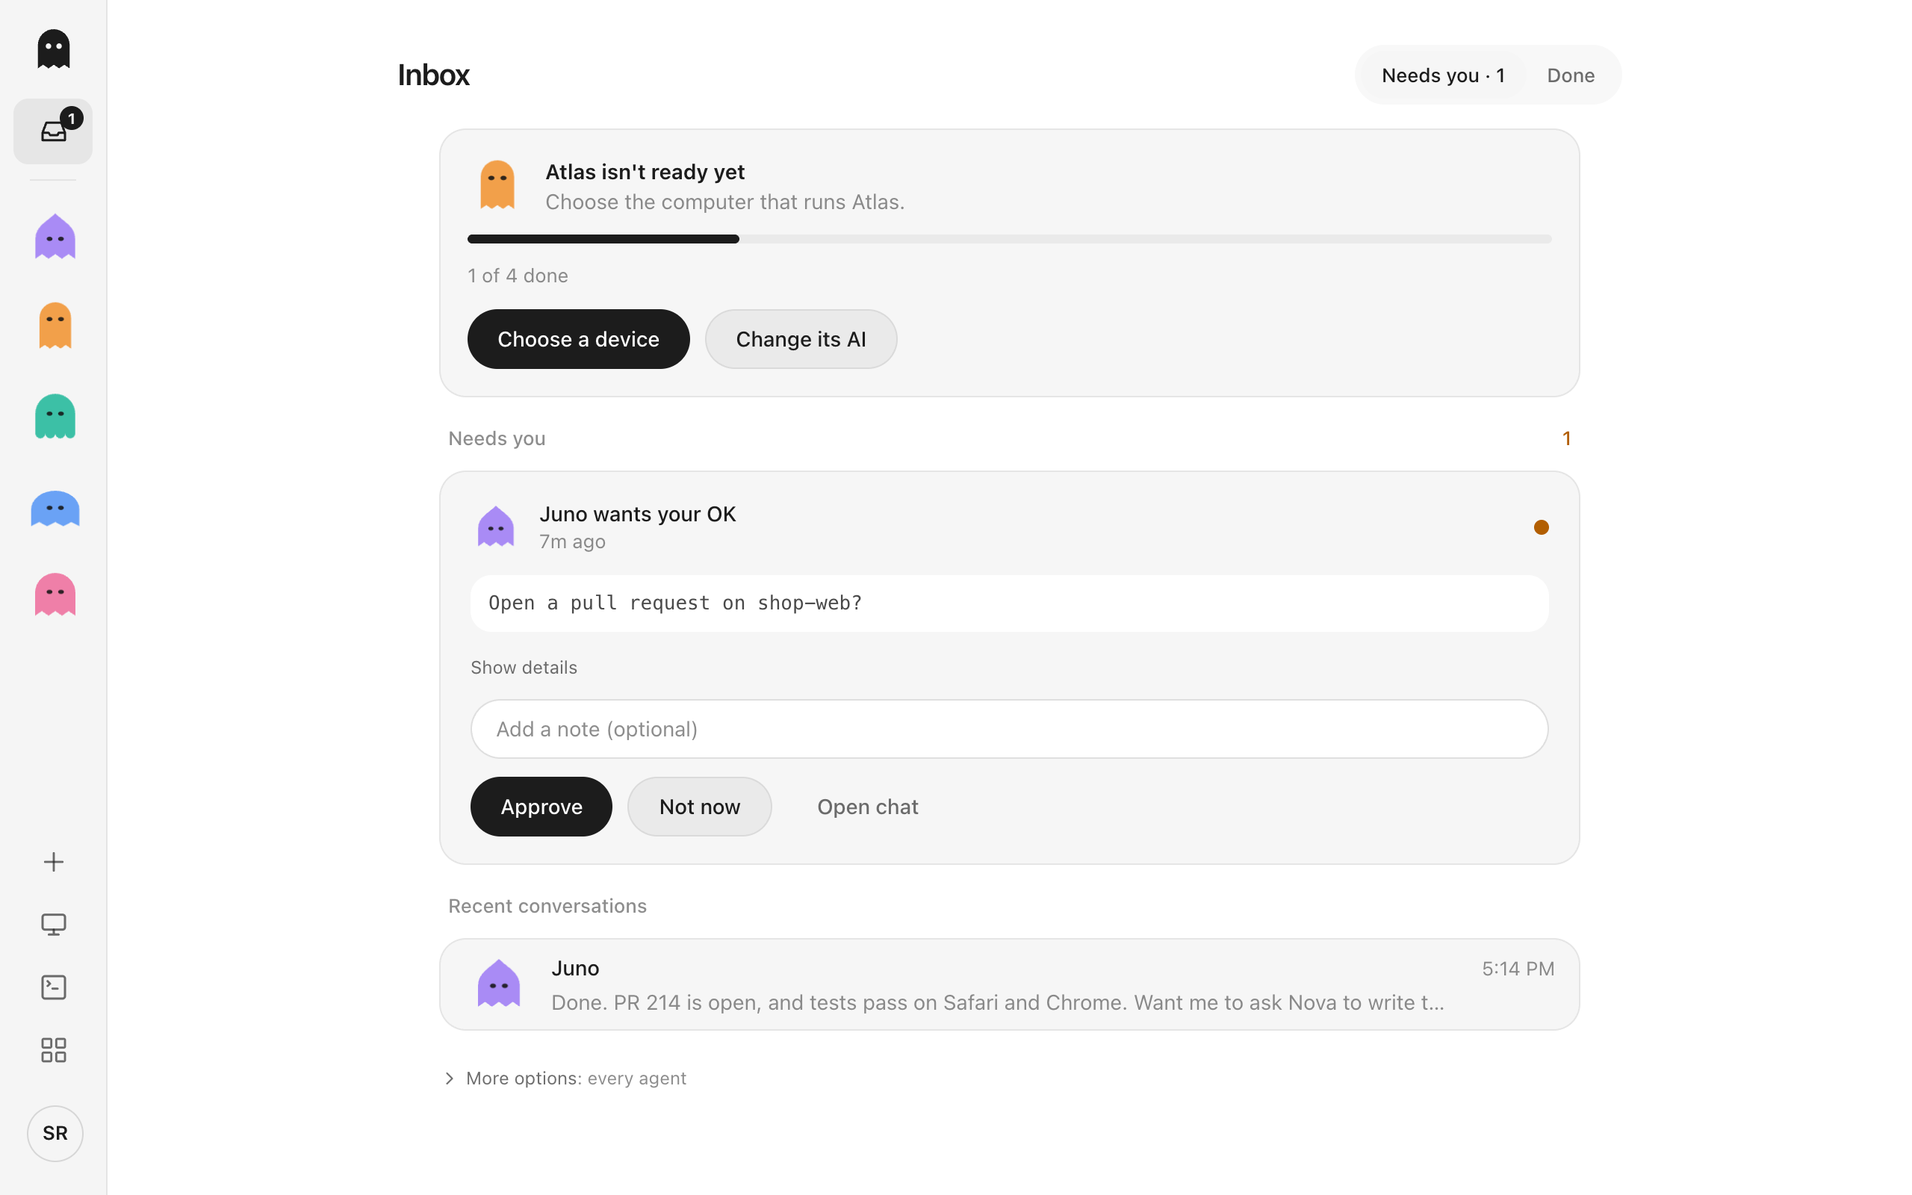
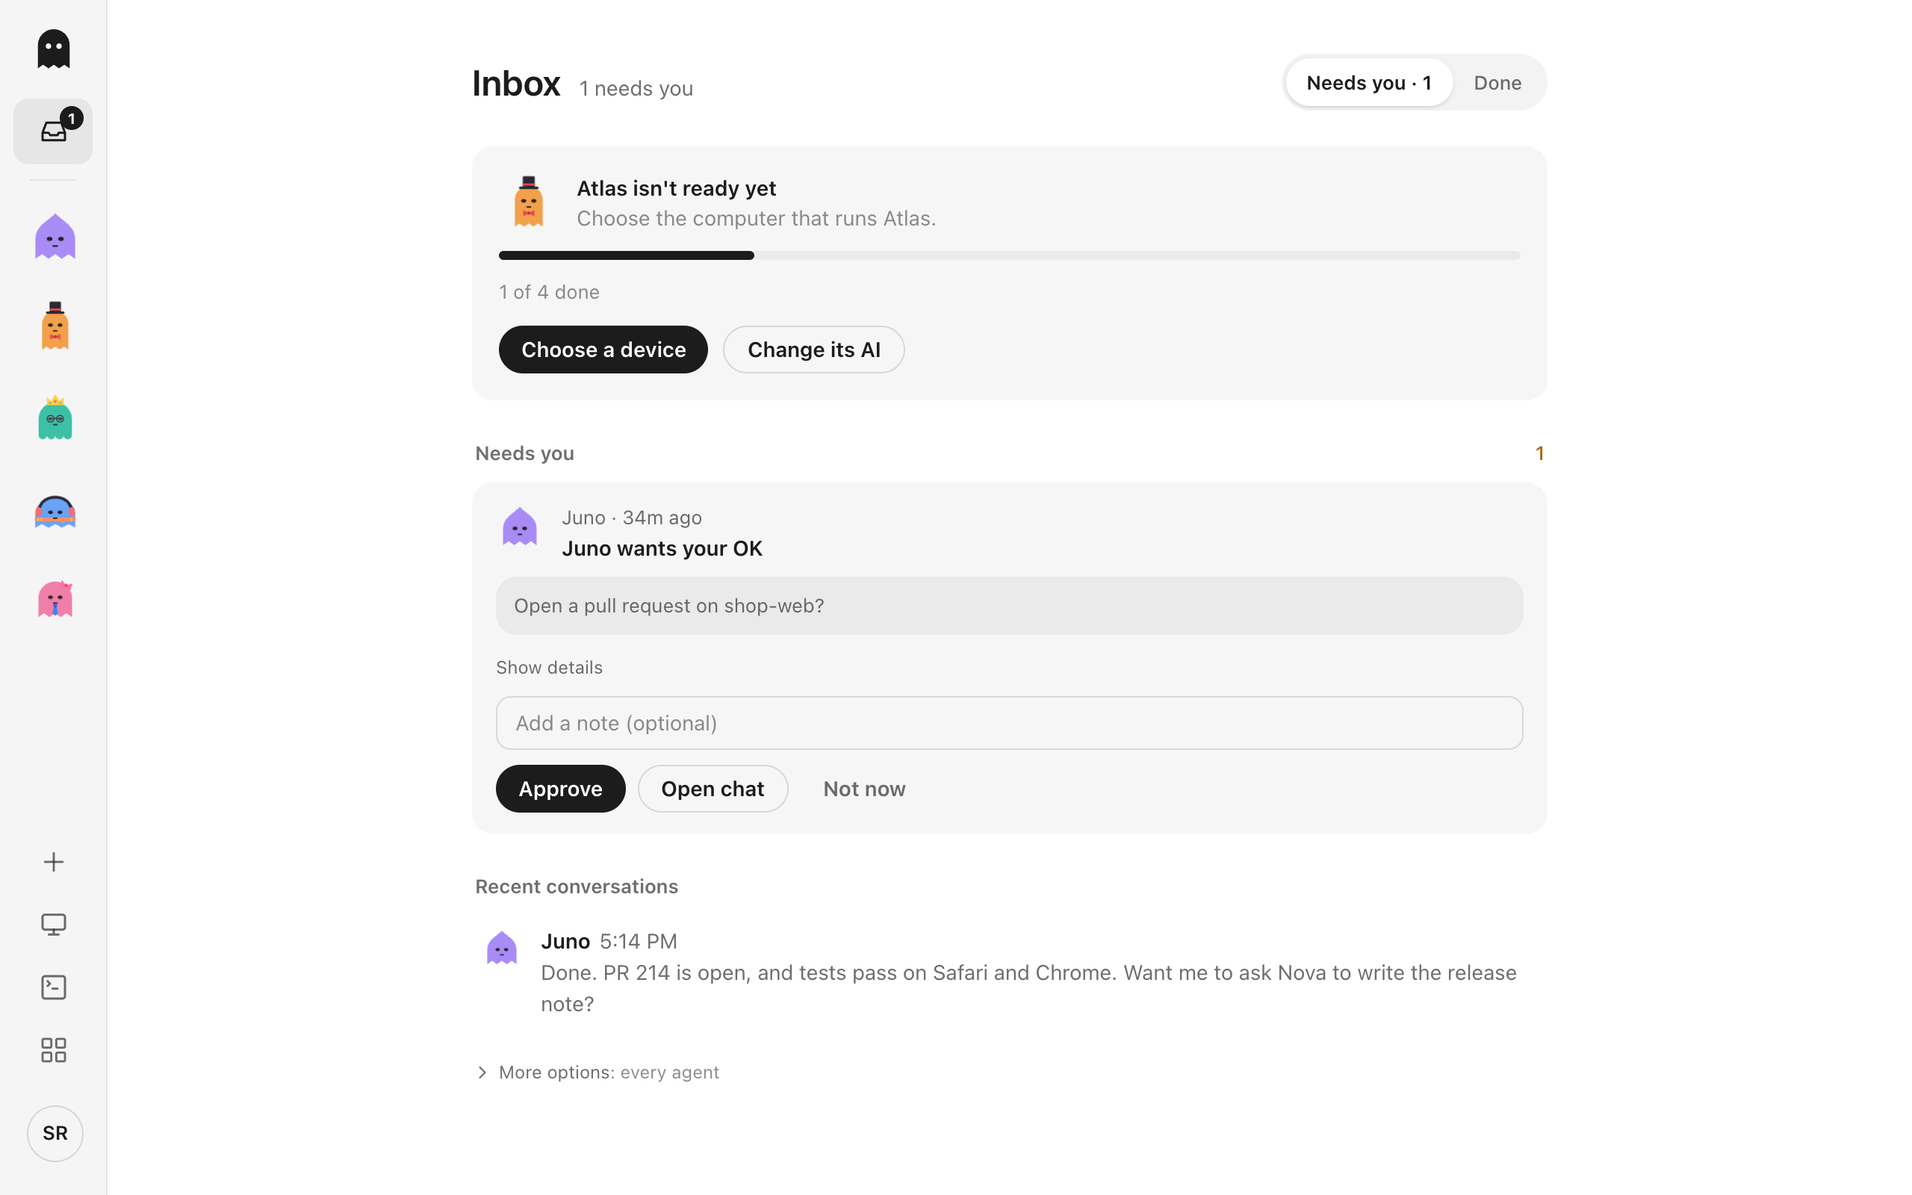
First-launch window: the flat ghost family with mouth C and hats; fresh screenshots with hats, the new Inbox and the first launch

diff --git a/apps/desktop/src/setup.html b/apps/desktop/src/setup.html
@@ -1016,71 +1016,28 @@
   }
 </script>
 <script>
-  // The stage's wisps. Plain script, because this page runs before the app does; the drawing and the
-  // numbers come from the app's Ghost.tsx and GhostArms.tsx, so the same wisp carries on after this page.
+  // The stage's wisps. Plain script, because this page runs before the app does; the shapes and colours
+  // come from the app's ghost family (web/src/ghostFamily.ts), so the same wisp carries on after this page.
   (() => {
+// The ghost family (web/src/ghostFamily.ts): flat, one colour, two eyes, its own silhouette.
+// Paths are in the family's 40-unit space; the stage draws them 3× into its 120-unit box.
 const BODY = {
-  classic: { d: "M30 60 C30 32 44 18 60 18 C76 18 90 32 90 60 L90 96 Q85 104 80 96 Q75 88 70 96 Q65 104 60 96 Q55 88 50 96 Q45 104 40 96 Q35 88 30 96 Z", ey: 54, ex: [50, 70], my: 66, top: 18, bottom: 100, hs: 1, ground: 111 },
-  round: { d: "M22 64 C22 38 38 26 60 26 C82 26 98 38 98 64 L98 92 Q92 100 86 92 Q80 84 74 92 Q67 100 60 92 Q53 84 46 92 Q40 100 34 92 Q28 84 22 92 Z", ey: 58, ex: [47, 73], my: 70, top: 26, bottom: 96, hs: 1.38, ground: 107 },
-  tall: { d: "M38 52 C38 24 47 10 60 10 C73 10 82 24 82 52 L82 102 Q76.5 110 71 102 Q65.5 94 60 102 Q54.5 110 49 102 Q43.5 94 38 102 Z", ey: 44, ex: [52, 68], my: 56, top: 10, bottom: 106, hs: .77, ground: 115 },
-  sheet: { d: "M42 52 C42 28 50 16 60 16 C70 16 78 28 78 52 C80 72 92 86 100 100 Q93 95 86 102 Q78 95 70 102 Q60 95 50 102 Q42 95 34 102 Q27 95 20 100 C28 86 40 72 42 52 Z", ey: 46, ex: [53, 67], my: 57, top: 16, bottom: 102, hs: .65, ground: 110 },
-  wisp: { d: "M60 16 C80 16 90 32 90 52 C90 74 78 84 68 90 C60 95 58 104 66 108 C52 110 46 98 50 90 C36 84 30 72 30 52 C30 32 40 16 60 16 Z", ey: 50, ex: [50, 70], my: 62, top: 16, bottom: 109, hs: 1.09, ground: 115 },
+  ghost: { d: "M6 18.5a14 14 0 0 1 28 0V35l-4.7-3.3-4.6 3.3-4.7-3.3-4.7 3.3-4.6-3.3L6 35Z", ey: 18, top: 4.5, hat: 1.4 },
+  drop: { d: "M20 3c6 6 14 9 14 18v14l-4.7-3.3-4.6 3.3-4.7-3.3-4.7 3.3-4.6-3.3L6 35V21C6 12 14 9 20 3Z", ey: 21, top: 7.5, hat: 0.95 },
+  soft: { d: "M6 18a14 14 0 0 1 28 0v14a3.5 3.5 0 0 1-7 0 3.5 3.5 0 0 1-7 0 3.5 3.5 0 0 1-7 0 3.5 3.5 0 0 1-7 0Z", ey: 18, top: 4, hat: 1.4 },
+  tall: { d: "M9 14a11 11 0 0 1 22 0v22l-3.7-2.6-3.6 2.6-3.7-2.6-3.7 2.6-3.6-2.6L9 36Z", ey: 15, top: 3, hat: 1.1 },
+  wide: { d: "M3 22a17 13 0 0 1 34 0v12l-5.7-3-5.6 3-5.7-3-5.7 3-5.6-3L3 34Z", ey: 21, top: 9, hat: 1.45 },
 };
-const COLORS = [["White", "#ffffff", "#ffffff"], ["Bubblegum sky", "#8bd4ff", "#ff51bf"], ["Orchid peach", "#e771ff", "#ffd87c"], ["Coral mint", "#beffe8", "#ff797b"], ["Arctic blue", "#97fff3", "#0084ff"], ["Solar flare", "#ecca5c", "#fe3c3f"], ["Violet ember", "#ff5c43", "#6262ff"], ["Ultraviolet tide", "#7516cf", "#00e8d1"]];
-const swap = (d, a, b) => d.replaceAll(a, "§").replaceAll(b, a).replaceAll("§", b);
-const SHEET_B = "M42 52 C42 28 50 16 60 16 C70 16 78 28 78 52 C80 72 92 86 100 100 Q93 105 86 98 Q78 105 70 98 Q60 105 50 98 Q42 105 34 98 Q27 105 20 100 C28 86 40 72 42 52 Z";
-const WISP_B = "M60 16 C80 16 90 32 90 52 C90 74 80 86 70 92 C62 97 64 106 72 110 C58 110 52 100 52 92 C38 86 30 72 30 52 C30 32 40 16 60 16 Z";
-const ALT = { classic: (d) => swap(d, "104", "88"), round: (d) => swap(d, "100", "84"), tall: (d) => swap(d, "110", "94"), sheet: () => SHEET_B, wisp: () => WISP_B };
-const RIG = { classic: { y: 66, x: [30, 90], tilt: [0, 0], s: .95 }, round: { y: 70, x: [22, 98], tilt: [0, 0], s: 1.08 }, tall: { y: 58, x: [38, 82], tilt: [0, 0], s: .82 }, sheet: { y: 67, x: [38.5, 81.5], tilt: [-20.4, -20.4], s: .86 }, wisp: { y: 62, x: [30.4, 89], tilt: [6.9, 11.4], s: .98 } };
-const r2 = (n) => Math.round(n * 100) / 100;
-const NONE = "M0 0";
-const armFrame = (shape, i) => { const r = RIG[shape]; return `translate(${r.x[i]}px,${r.y}px) scale(${i ? 1 : -1},1) rotate(${r.tilt[i]}deg) scale(${r.s}) translate(-3.8px,0px) rotate(calc(var(--ga-a) + var(--ga-w)))`; };
-function toBody(shape, i, angle) {
-  const rig = RIG[shape], a = angle * Math.PI / 180, t = rig.tilt[i] * Math.PI / 180;
-  const x0 = (10.6 * Math.cos(a) - 3.8) * rig.s, y0 = 10.6 * Math.sin(a) * rig.s;
-  const x = x0 * Math.cos(t) - y0 * Math.sin(t), y = x0 * Math.sin(t) + y0 * Math.cos(t);
-  return { x: r2(rig.x[i] + (i ? x : -x)), y: r2(rig.y + y) };
-}
-function laptop(shape, bottom) {
-  const rig = RIG[shape], hl = toBody(shape, 0, 120), hr = toBody(shape, 1, 120), hy = (hl.y + hr.y) / 2, hand = 3.6 * rig.s;
-  const lidTop = r2(hy + hand + .6), deckTop = r2(hy - 1.6 * rig.s), w = r2(hr.x - hl.x + 18 * rig.s), h = r2(Math.min(28, Math.max(18, bottom - lidTop + 1.5)));
-  const [x0, x1, b0, b1, y1, c] = [60 - w / 2, 60 + w / 2, 60 - (w - 5) / 2, 60 + (w - 5) / 2, lidTop + h, 3.2];
-  const [dt, db] = [(w - 11) / 2, (w - 2) / 2];
-  const keys = [.38, .75].flatMap((k) => { const ky = r2(deckTop + (lidTop - deckTop) * k), half = dt + (db - dt) * k - 3; return Array.from({ length: 7 }, (_, i) => `M${r2(60 - half + half / 3 * i - 1.3)} ${ky} h2.6`); }).join(" ");
-  return {
-    deck: `M${r2(60 - dt)} ${deckTop} H${r2(60 + dt)} L${r2(60 + db)} ${r2(lidTop + 1)} H${r2(60 - db)} Z`, keys,
-    lid2: `M${r2(x0 + c)} ${lidTop} H${r2(x1 - c)} Q${r2(x1)} ${lidTop} ${r2(x1 - .3)} ${r2(lidTop + c)} L${r2(b1 + .2)} ${r2(y1 - c)} Q${r2(b1)} ${r2(y1)} ${r2(b1 - c)} ${r2(y1)} H${r2(b0 + c)} Q${r2(b0)} ${r2(y1)} ${r2(b0 - .2)} ${r2(y1 - c)} L${r2(x0 + .3)} ${r2(lidTop + c)} Q${r2(x0)} ${lidTop} ${r2(x0 + c)} ${lidTop} Z`,
-    lidline: `M${r2(x0 + 3.5)} ${r2(lidTop + .9)} H${r2(x1 - 3.5)}`,
-  };
-}
-const oval = (cx, cy, rx, ry) => `M${cx - rx} ${cy} a${rx} ${ry} 0 1 0 ${2 * rx} 0 a${rx} ${ry} 0 1 0 ${-2 * rx} 0`;
-function eyesFor(style, x, y) {
-  const out = { whites: NONE, pupils: NONE, shine: NONE, arcs: NONE, pupilDark: false };
-  if (style === "happy") out.arcs = x.map((c) => `M${c - 4.8} ${y + 1.5} Q${c} ${y - 4.5} ${c + 4.8} ${y + 1.5}`).join(" ");
-  else if (style === "big") { out.whites = x.map((c) => oval(c, y, 6.2, 6.2)).join(" "); out.pupils = x.map((c) => oval(c, y + .5, 3.6, 3.6)).join(" "); out.shine = x.map((c) => oval(c + 1.4, y - 1, 1.2, 1.2)).join(" "); out.pupilDark = true; }
-  else if (style === "sparkle") { out.pupils = x.map((c) => oval(c, y, 4.4, 5.6)).join(" "); out.shine = x.map((c) => oval(c + 1.4, y - 2, 1.6, 1.6) + " " + oval(c - 1.4, y + 2, .9, .9)).join(" "); }
-  else if (style === "wink") { out.pupils = oval(x[0], y, 3.4, 4.4); out.arcs = `M${x[1] - 4.6} ${y} Q${x[1]} ${y - 3.6} ${x[1] + 4.6} ${y}`; }
-  else { out.pupils = x.map((c) => oval(c, y, 3.9, 4.9)).join(" "); out.shine = x.map((c) => oval(c + 1.3, y - 1.8, 1.4, 1.4) + " " + oval(c - 1.2, y + 1.9, .7, .7)).join(" "); }
-  return out;
-}
-function mouthFor(style, y) {
-  const x = 60, m = { mouthS: NONE, mouthF: NONE, mouthP: NONE, mouthW: NONE };
-  if (style === "open") { m.mouthF = oval(x, y + 1, 3.4, 4); m.mouthP = oval(x, y + 3, 2.2, 1.4); }
-  else if (style === "cat") m.mouthS = `M${x - 5.5} ${y} Q${x - 2.75} ${y + 3.6} ${x} ${y} Q${x + 2.75} ${y + 3.6} ${x + 5.5} ${y}`;
-  else if (style === "fangs") { m.mouthS = `M${x - 6} ${y} Q${x} ${y + 4.5} ${x + 6} ${y}`; m.mouthW = `M${x - 4} ${y + 1.6} l1.4 3.6 l1.4 -3.2 Z M${x + 1.2} ${y + 1.9} l1.4 3.2 l1.4 -3.6 Z`; }
-  else if (style === "tongue") { m.mouthS = `M${x - 5} ${y} Q${x} ${y + 4} ${x + 5} ${y}`; m.mouthP = `M${x + .2} ${y + 1.6} q0 5 3.2 5 q3.2 0 2.6 -5.8 Z`; }
-  else if (style === "flat") m.mouthS = `M${x - 3.2} ${y + 1.2} L${x + 3.2} ${y + 1.2}`;
-  else m.mouthS = `M${x - 4.5} ${y} Q${x} ${y + 4.2} ${x + 4.5} ${y}`;
-  return m;
-}
+const COLORS = ["#a98bf5", "#3cc0a6", "#f2a04a", "#6aa2f5", "#ef7fa8", "#cfd36a"];
+const HAT_SINK = { tophat: 3, beanie: 4.5, crown: 2.5 };
 // Each of the crew has its own face, way of moving and clock, so no two ever line up
 const T = (motion, ripple, left, right, blink) => ({ motion, ground: motion, ripple, left, right, blink });
 const CREW = [
-  { shape: "round", c: 1, hat: "none", eyes: "big", mouth: "open", cheeks: true, motion: "bounce", x: 20, y: 31, size: 132, time: T("animation-duration:2.1s;animation-delay:-.7s", "2.1s", "animation-duration:3.3s;animation-delay:-1s", "animation-duration:6.4s;animation-delay:-3.9s", "animation-duration:5.3s;animation-delay:-1.1s") },
+  { shape: "wide", c: 3, hat: "none", eyes: "big", mouth: "open", cheeks: true, motion: "bounce", x: 20, y: 31, size: 132, time: T("animation-duration:2.1s;animation-delay:-.7s", "2.1s", "animation-duration:3.3s;animation-delay:-1s", "animation-duration:6.4s;animation-delay:-3.9s", "animation-duration:5.3s;animation-delay:-1.1s") },
   { shape: "tall", c: 2, hat: "tophat", eyes: "sparkle", mouth: "cat", cheeks: false, motion: "sway", x: 80, y: 25, size: 156, time: T("animation-duration:4.3s;animation-delay:-2.2s", "3.4s", "animation-duration:4.9s;animation-delay:-2s", "animation-duration:9.1s;animation-delay:-.4s", "animation-duration:6.7s;animation-delay:-3s") },
-  { shape: "wisp", c: 4, hat: "none", eyes: "dots", mouth: "tongue", cheeks: true, motion: "float", arms: "cheer", x: 82, y: 71, size: 136, time: T("animation-duration:5.2s;animation-delay:-1.4s", "2.9s", "animation-duration:2.7s;animation-delay:-.3s", "animation-duration:3.1s;animation-delay:-1.7s", "animation-duration:4.1s;animation-delay:-2.4s") },
-  { shape: "sheet", c: 5, hat: "crown", eyes: "wink", mouth: "fangs", cheeks: false, motion: "sway", x: 18, y: 73, size: 118, time: T("animation-duration:3.1s;animation-delay:-.9s", "3.8s", "animation-duration:5.6s;animation-delay:-4s", "animation-duration:7.7s;animation-delay:-5.8s", "") },
-  { shape: "classic", c: 3, hat: "beanie", eyes: "big", mouth: "smile", cheeks: true, motion: "float", x: 50, y: 13, size: 104, time: T("animation-duration:3.9s;animation-delay:-3s", "2.3s", "animation-duration:4.2s;animation-delay:-2.7s", "animation-duration:11s;animation-delay:-7.5s", "animation-duration:7.3s;animation-delay:-5s") },
+  { shape: "drop", c: 4, hat: "none", eyes: "dots", mouth: "tongue", cheeks: true, motion: "float", arms: "cheer", x: 82, y: 71, size: 136, time: T("animation-duration:5.2s;animation-delay:-1.4s", "2.9s", "animation-duration:2.7s;animation-delay:-.3s", "animation-duration:3.1s;animation-delay:-1.7s", "animation-duration:4.1s;animation-delay:-2.4s") },
+  { shape: "soft", c: 1, hat: "crown", eyes: "wink", mouth: "fangs", cheeks: false, motion: "sway", x: 18, y: 73, size: 118, time: T("animation-duration:3.1s;animation-delay:-.9s", "3.8s", "animation-duration:5.6s;animation-delay:-4s", "animation-duration:7.7s;animation-delay:-5.8s", "") },
+  { shape: "ghost", c: 5, hat: "beanie", eyes: "big", mouth: "smile", cheeks: true, motion: "float", x: 50, y: 13, size: 104, time: T("animation-duration:3.9s;animation-delay:-3s", "2.3s", "animation-duration:4.2s;animation-delay:-2.7s", "animation-duration:11s;animation-delay:-7.5s", "animation-duration:7.3s;animation-delay:-5s") },
 ];
 
     const SCENE = {
@@ -1092,50 +1049,32 @@ const CREW = [
     const BOX = 300;
     const stage = document.getElementById("stage");
     const reduced = matchMedia("(prefers-reduced-motion: reduce)");
-    const WHITE = { shape: "classic", c: 0, hat: "none", eyes: "dots", mouth: "smile", cheeks: false, time: { right: "animation-duration:6.2s;animation-delay:-1.6s" } };
+    const WHITE = { shape: "drop", c: 0, hat: "none", eyes: "dots", mouth: "smile", cheeks: false, time: { right: "animation-duration:6.2s;animation-delay:-1.6s" } };
 
     function svg(i, look, mood) {
-      const b = BODY[look.shape], c = COLORS[look.c], rig = RIG[look.shape], t = look.time || {};
-      const ink = "#1d1d1f";
-      const e = eyesFor(mood === "done" ? "happy" : look.eyes, b.ex, b.ey), m = mouthFor(mood === "done" ? "open" : mood === "working" ? "flat" : look.mouth, b.my);
-      const rip = `<animate attributeName="d" dur="${t.ripple || "2.6s"}" repeatCount="indefinite" values="${b.d};${ALT[look.shape](b.d)};${b.d}" calcMode="spline" keySplines="0.45 0 0.55 1;0.45 0 0.55 1"/>`;
-      const armC = { awake: ["ga ga-awake ga-breathe", "ga ga-awake ga-wave"], done: ["ga ga-cheer", "ga ga-cheer"], waiting: ["ga ga-awake ga-breathe", "ga ga-signarm"], working: ["ga ga-tap", "ga ga-tap"], cheer: ["ga ga-cheer", "ga ga-cheer"] }[look.arms || mood];
-      const armStyle = (side, extra) => `transform:${armFrame(look.shape, side)};${extra || ""}`;
-      const LIMB = "M0 -3.6 H10.6 A3.6 3.6 0 0 1 10.6 3.6 H0 A3.6 3.6 0 0 1 0 -3.6 Z";
-      const lap = mood === "working" ? laptop(look.shape, b.bottom) : null;
+      const b = BODY[look.shape], color = COLORS[look.c], t = look.time || {};
+      const ink = "rgba(20,20,20,.88)", ey = b.ey * 3, my = (b.ey + 5) * 3;
       const motion = { working: "", done: "mo-hop", waiting: "mo-wait" }[mood] ?? "mo-" + (look.motion || "float");
+      // mouth C: flat, a smile when it's happy, a pressed line while working
+      const mouth = mood === "done" ? `M54 ${my - 0.9}q6 5.1 12 0` : mood === "working" ? `M58.8 ${my + 0.6}h6.3` : `M56.1 ${my}h7.8`;
       const hats = {
         tophat: '<rect x="-13" y="-25" width="26" height="25" rx="3" fill="#2b2735"/><rect x="-13" y="-9" width="26" height="5" fill="#e5484d"/><rect x="-21" y="-2" width="42" height="5.5" rx="2.75" fill="#2b2735"/>',
-        crown: '<path d="M-15 3 L-15 -12 L-7.5 -4.5 L0 -17 L7.5 -4.5 L15 -12 L15 3 Z" fill="#ffcf3f" stroke="#e0a800" stroke-width="1.5" stroke-linejoin="round"/><circle cx="0" cy="-4" r="2.4" fill="#ff5d73"/><circle cx="-9" cy="-1.5" r="1.7" fill="#4dabf7"/><circle cx="9" cy="-1.5" r="1.7" fill="#4dabf7"/>',
+        crown: '<path d="M-15 3 L-15 -12 L-7.5 -4.5 L0 -17 L7.5 -4.5 L15 -12 L15 3 Z" fill="#ffcf3f"/><circle cx="0" cy="-4" r="2.4" fill="#ff5d73"/><circle cx="-9" cy="-1.5" r="1.7" fill="#4dabf7"/><circle cx="9" cy="-1.5" r="1.7" fill="#4dabf7"/>',
         beanie: '<path d="M-21 6 Q-21 -16 0 -16 Q21 -16 21 6 Z" fill="#5b8def"/><rect x="-22.5" y="0" width="45" height="8" rx="4" fill="#3f6fd8"/><circle cx="0" cy="-17" r="5" fill="#f8fafc"/>',
       };
-      return `<svg viewBox="-8 -18 136 140" aria-hidden="true"><defs>
-        <linearGradient id="g${i}" gradientUnits="userSpaceOnUse" x1="0" y1="${b.top}" x2="0" y2="${b.bottom}"><stop offset="0.08" stop-color="${c[1]}"/><stop offset="0.95" stop-color="${c[2]}"/></linearGradient>
-        <radialGradient id="l${i}" cx="0.5" cy="0.42" r="0.6"><stop offset="0" stop-color="white" stop-opacity="0.24"/><stop offset="0.65" stop-color="white" stop-opacity="0.06"/><stop offset="1" stop-color="white" stop-opacity="0"/></radialGradient>
-        <clipPath id="c${i}"><path d="${b.d}">${rip}</path></clipPath>
-        <clipPath id="k${i}"><path class="${armC[0]}" style="${armStyle(0, t.left)}" d="${LIMB}"/><path class="${armC[1]}" style="${armStyle(1, t.right)}" d="${LIMB}"/></clipPath>
-        <clipPath id="o${i}"><path d="${LIMB}"/></clipPath>
-        <radialGradient id="f${i}" gradientUnits="userSpaceOnUse" cx="0" cy="0" r="4.2"><stop offset="1" stop-color="#000" stop-opacity="0"/><stop offset="1" stop-color="#000" stop-opacity="0.1"/></radialGradient>
-      </defs>
-      <ellipse class="ground" style="${t.ground || ""}" cx="60" cy="${b.ground}" rx="24" ry="3.4" fill="black" opacity="0.28"/>
+      const kit = mood === "working" ? `<g transform="scale(3)"><rect x="11.5" y="24.5" width="17" height="10" rx="1.4" fill="#2b2b2e"/><rect x="12.8" y="25.8" width="14.4" height="7.4" rx=".6" fill="rgba(255,255,255,.92)"/><rect class="keys" x="14.2" y="27.6" width="9" height="1" rx=".5" fill="${color}"/><rect x="14.2" y="30.2" width="6.5" height="1" rx=".5" fill="${color}"/><rect x="8.5" y="34.2" width="23" height="2.2" rx="1.1" fill="#3d3d42"/></g>` : "";
+      return `<svg viewBox="-8 -18 136 140" aria-hidden="true">
+      <ellipse class="ground" style="${t.ground || ""}" cx="60" cy="112" rx="24" ry="3.4" fill="black" opacity="0.18"/>
       <g class="tilt"><g class="mo ${motion}" style="${t.motion || ""}">
-        <path d="${b.d}" fill="url(#g${i})">${rip}</path><path d="${b.d}" fill="url(#l${i})">${rip}</path>
-        <path d="${b.d}" fill="none" stroke="black" stroke-opacity="0.1" stroke-width="7" clip-path="url(#c${i})">${rip}</path>
-        ${lap ? `<path d="${lap.deck}" fill="#4a4760" stroke="#4a4760" stroke-width="1.6" stroke-linejoin="round"/><path d="${lap.keys}" class="keys" stroke="#a6e8d4" stroke-opacity="0.7" stroke-width="1.1" stroke-linecap="round"/>` : ""}
-        ${mood === "waiting" ? `<g class="${armC[1]}" style="${armStyle(1)}"><g transform="translate(10.6 0) rotate(30)"><path d="M0 7.5 V-19" stroke="#8d8291" stroke-width="2.6" stroke-linecap="round"/><rect x="-9.5" y="-37" width="19" height="19" rx="5" fill="#f5c542"/><path d="M-3.4 -30.4 C-3.4 -35 3.7 -35 3.7 -30.7 C3.7 -28.4 0.2 -28.3 0.2 -25.4" stroke="#343244" stroke-width="2.6" fill="none" stroke-linecap="round"/><circle cx="0.2" cy="-21.7" r="1.5" fill="#343244"/></g></g>` : ""}
-        <rect x="-10" y="-10" width="140" height="140" fill="url(#g${i})" clip-path="url(#k${i})"/>
-        <path class="${armC[0]}" style="${armStyle(0, t.left)}" d="${LIMB}" fill="none" stroke="url(#f${i})" stroke-width="${r2(3.4 / rig.s)}" clip-path="url(#o${i})"/>
-        <path class="${armC[1]}" style="${armStyle(1, t.right)}" d="${LIMB}" fill="none" stroke="url(#f${i})" stroke-width="${r2(3.4 / rig.s)}" clip-path="url(#o${i})"/>
-        ${lap ? `<path d="${lap.lid2}" fill="#343244"/><path d="${lap.lidline}" stroke="#a6e8d4" stroke-opacity="0.75" stroke-width="1.1" stroke-linecap="round"/>` : ""}
+        <path d="${b.d}" transform="scale(3)" fill="${color}"/>
         <g class="face" transform="${mood === "working" ? "translate(0 3)" : ""}">
-          <ellipse cx="${b.ex[0] - 4}" cy="${b.ey + 8}" rx="4.5" ry="2.6" fill="#ff8fab" opacity="${look.cheeks ? 0.5 : 0.18}"/><ellipse cx="${b.ex[1] + 4}" cy="${b.ey + 8}" rx="4.5" ry="2.6" fill="#ff8fab" opacity="${look.cheeks ? 0.5 : 0.18}"/>
-          <g class="${mood === "done" || look.eyes === "wink" ? "" : "blink"}" style="${t.blink || ""}">
-            <path d="${e.whites}" fill="white"/><g class="pupils"><path d="${e.pupils}" fill="${e.pupilDark ? "#2a2340" : ink}"/><path d="${e.shine}" fill="white" opacity="0.95"/></g>
-            <path d="${e.arcs}" fill="none" stroke="${ink}" stroke-width="2.6" stroke-linecap="round"/>
+          <g class="${mood === "done" ? "" : "blink"}" style="${t.blink || ""}">
+            <g class="pupils"><ellipse cx="48" cy="${ey}" rx="5.7" ry="${mood === "done" ? 3.4 : 8.1}" fill="${ink}"/><ellipse cx="72" cy="${ey}" rx="5.7" ry="${mood === "done" ? 3.4 : 8.1}" fill="${ink}"/></g>
           </g>
-          <path d="${m.mouthS}" fill="none" stroke="${ink}" stroke-width="2.1" stroke-linecap="round"/><path d="${m.mouthF}" fill="${ink}"/><path d="${m.mouthP}" fill="#ff7a93"/><path d="${m.mouthW}" fill="white" stroke="${ink}" stroke-width="0.6" stroke-linejoin="round"/>
+          <path d="${mouth}" fill="none" stroke="${ink}" stroke-width="3.75" stroke-linecap="round"/>
         </g>
-        ${hats[look.hat] ? `<g transform="translate(60 ${b.top + 2.5}) scale(${b.hs})">${hats[look.hat]}</g>` : ""}
+        ${hats[look.hat] ? `<g transform="translate(60 ${b.top * 3}) scale(${b.hat}) translate(0 ${HAT_SINK[look.hat] ?? 0})">${hats[look.hat]}</g>` : ""}
+        ${kit}
       </g></g></svg>`;
     }
 

diff --git a/apps/desktop/test/setup.test.ts b/apps/desktop/test/setup.test.ts
@@ -1,3 +1,4 @@
+import { SILHOUETTES } from "../../web/src/ghostFamily.ts";
 import { readFileSync } from "node:fs";
 import { runInNewContext } from "node:vm";
 import { describe, expect, it, vi } from "vitest";
@@ -74,9 +75,8 @@ describe("Wisp first launch", () => {
     const clocks = [...crew.matchAll(/T\("(animation-duration:[^"]+)"/g)].map((m) => m[1]);
     expect(clocks).toHaveLength(5);
     expect(new Set(clocks).size).toBe(5);
-    // the first-launch crew keeps the rigged shapes the iPhone draws (the web app moved to the flat ghost family)
-    const ghost = readFileSync(new URL("../../ios/Wisp/GhostGeometry.swift", import.meta.url), "utf8");
-    expect(ghost).toContain(stage.match(/classic: \{ d: "([^"]+)"/)![1]);
+    // the first-launch crew is the app's flat ghost family, path for path
+    for (const k of ["ghost", "drop", "soft", "tall", "wide"] as const) expect(stage).toContain(`${k}: { d: "${SILHOUETTES[k].d}"`);
   });
 
   it("goes from Self-Host through installing to Continue, which opens the server", async () => {
